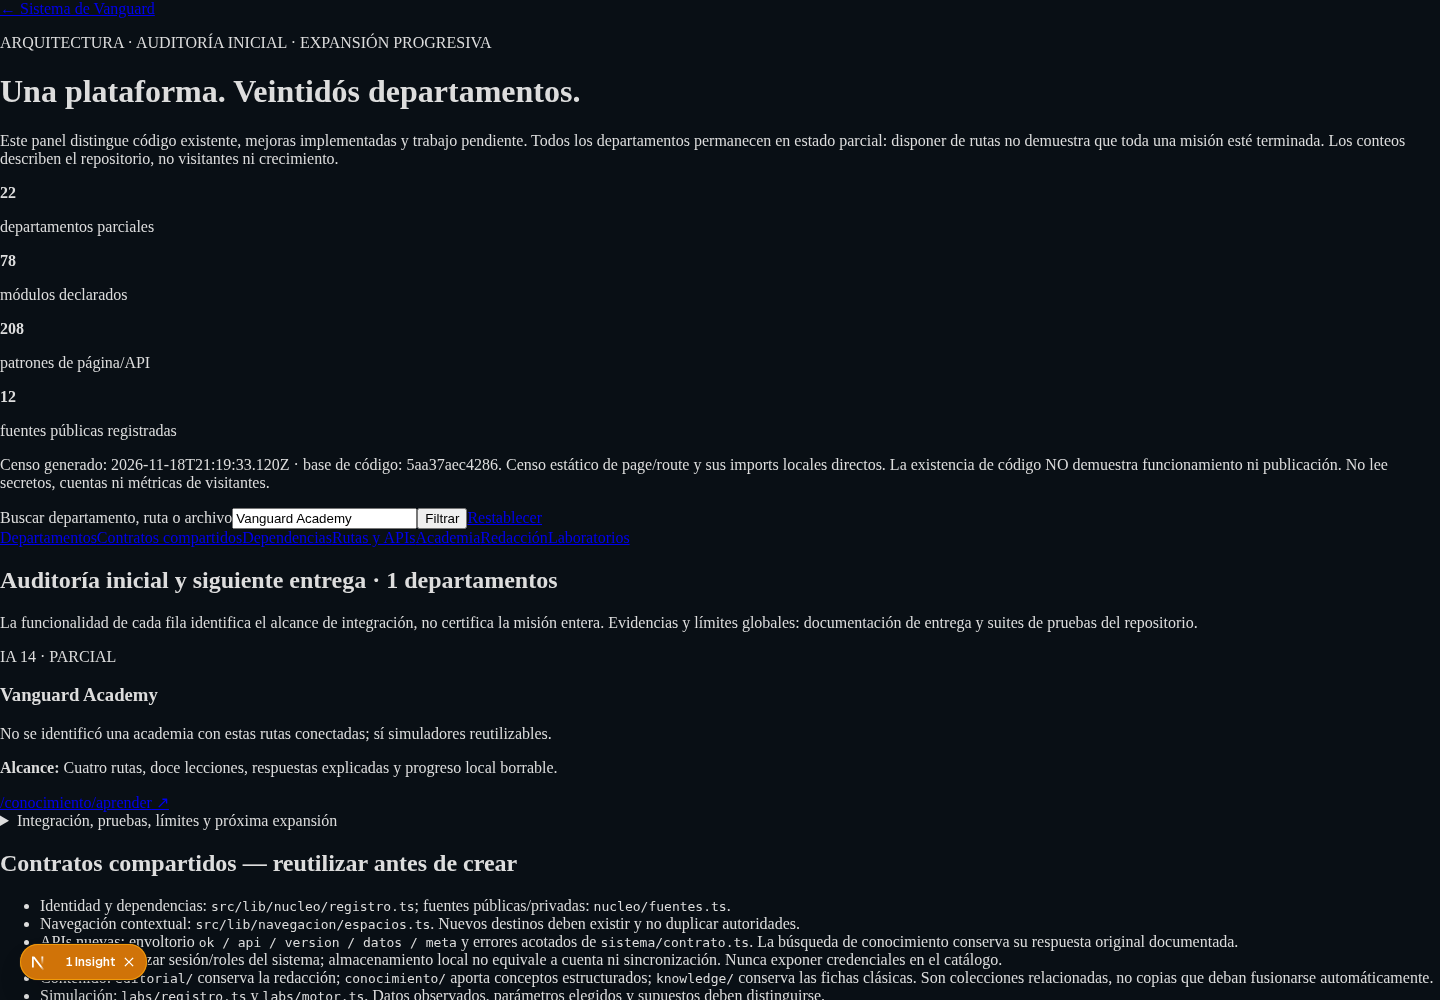
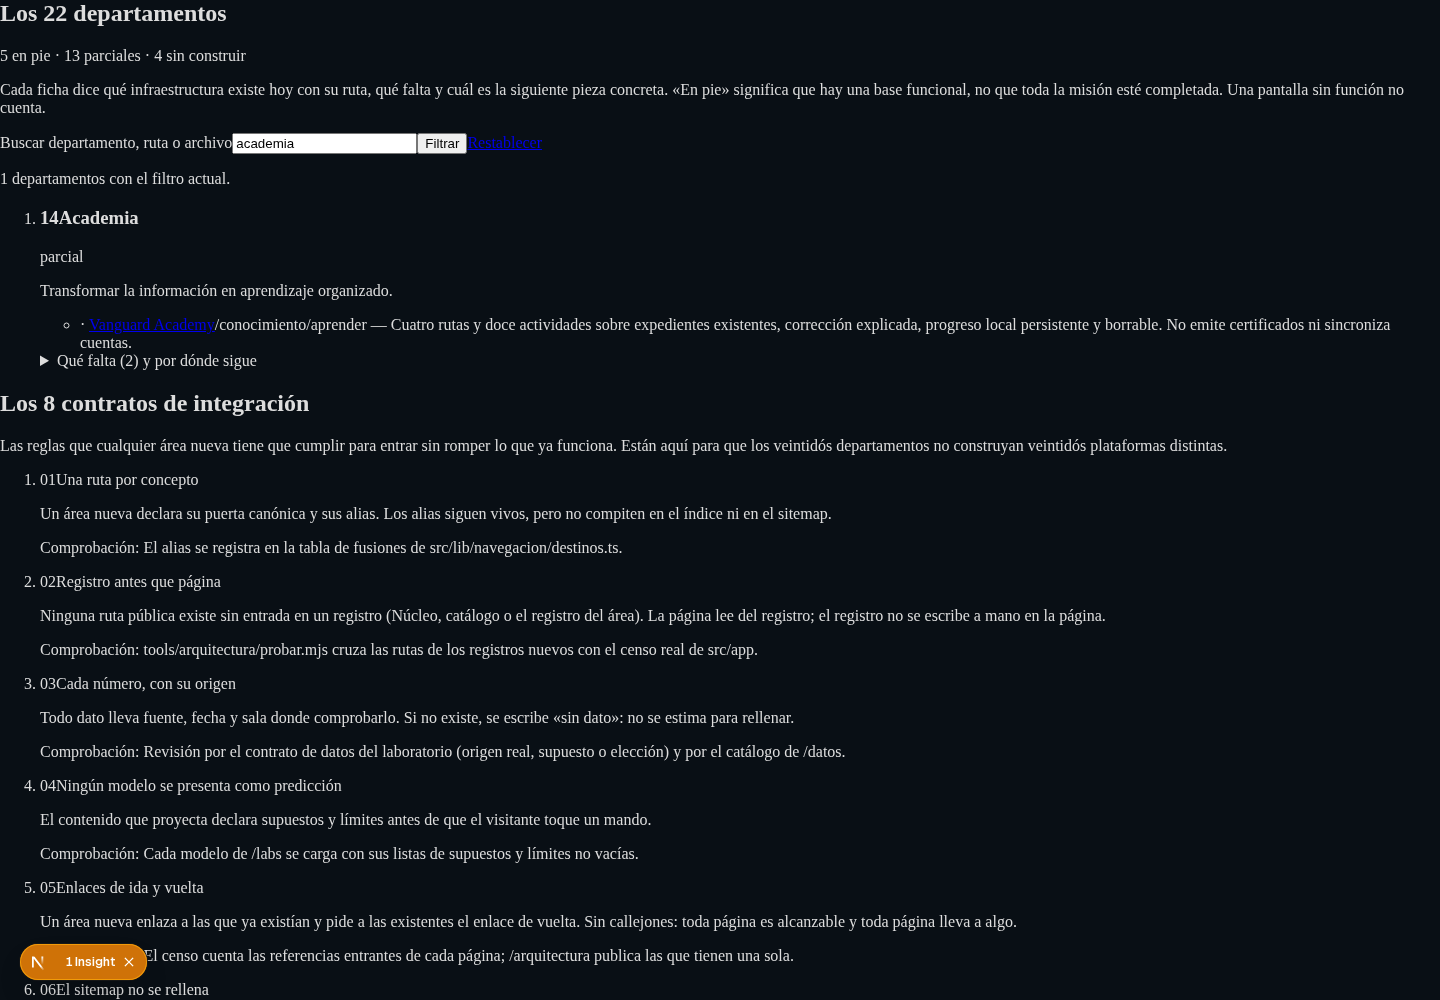
feat: integrar academia y explicador con la arquitectura canónica

diff --git a/scripts/conocimiento/pruebas-departamentos.ts b/scripts/conocimiento/pruebas-departamentos.ts
@@ -3,18 +3,19 @@ import fs from 'node:fs';
 import {NextRequest} from 'next/server';
 import {RUTAS_APRENDIZAJE,evaluarRespuesta,explicarConcepto} from '../../src/lib/conocimiento/aprendizaje';
 import {CONCEPTOS,rutasConocimiento} from '../../src/lib/conocimiento/indice';
-import dept from '../../src/lib/departamentos/registro.json';
-import inv from '../../src/lib/conocimiento/inventario.json';
+import {DEPARTAMENTOS as dept} from '../../src/lib/arquitectura/departamentos';
+import inv from '../../src/lib/arquitectura/censo.json';
+import {FUENTES_PUBLICAS} from '../../src/lib/nucleo/fuentes';
 import {MODULOS_NUCLEO} from '../../src/lib/nucleo/registro';
 import {GET} from '../../src/app/api/conocimiento/explicar/route';
 async function main(){
 const checks:string[]=[];function check(name:string,fn:()=>void){fn();checks.push(name);console.log('✓',name);}
-check('22 departamentos con auditoría, alcance, archivos, pruebas, límites y siguiente expansión',()=>{assert.equal(dept.length,22);assert.equal(new Set(dept.map(d=>d.id)).size,22);for(const d of dept){assert.equal(d.estado,'parcial');for(const key of ['auditoria','funcionalidad','integracion','pruebas','problemas','pendiente','motivo','proxima'] as const)assert(d[key].length>20);for(const f of d.archivos)assert(fs.existsSync(f),f);for(const r of d.rutas){const p=r.split('?')[0];assert(fs.existsSync(`src/app${p}/page.tsx`)||inv.rutas.some(x=>x.ruta===p)||rutasConocimiento().includes(p),r);}}});
-check('Censo reproducible sin colisiones; cada patrón apunta a un archivo real',()=>{assert.equal(inv.colisiones.length,0);assert(inv.rutas.length>150);for(const r of inv.rutas)assert(fs.existsSync(r.archivo));});
+check('Registro canónico único de 22 departamentos; academia y explicador con alcance parcial',()=>{assert.equal(dept.length,22);assert.equal(new Set(dept.map(d=>d.id)).size,22);assert.equal(dept.find(d=>d.n===14)?.estado,'parcial');assert.equal(dept.find(d=>d.n===15)?.estado,'parcial');for(const d of dept){assert(d.falta.length>0);assert(d.siguiente.length>20);for(const pieza of d.existe){if(!pieza.ruta)continue;const p=pieza.ruta.split('?')[0];assert(fs.existsSync(`src/app${p}/page.tsx`)||inv.rutas.some(x=>new RegExp('^'+x.ruta.replace(/\[[^\]]+\]/g,'[^/]+')+'$').test(p))||rutasConocimiento().includes(p),p);}}});
+check('Censo compartido regenerado y sin rutas huérfanas',()=>{assert(inv.total>150);assert.deepEqual(inv.huerfanas,[]);assert.equal(inv.total,inv.paginas+inv.rutasApi);});
 check('Cuatro rutas y doce actividades conectadas a expedientes con fuentes',()=>{assert.equal(RUTAS_APRENDIZAJE.length,4);assert.equal(RUTAS_APRENDIZAJE.flatMap(r=>r.preguntas).length,12);for(const r of RUTAS_APRENDIZAJE)for(const p of r.preguntas){assert(CONCEPTOS.some(c=>c.id===p.concepto&&c.fuentes.length>0));assert(p.correcta>=0&&p.correcta<p.opciones.length);assert(p.explicacion.length>50);}});
 check('Evaluación distingue respuestas correctas, incorrectas y entradas no enteras',()=>{for(const r of RUTAS_APRENDIZAJE)for(const p of r.preguntas){assert(evaluarRespuesta(p,p.correcta).correcta);assert(!evaluarRespuesta(p,(p.correcta+1)%p.opciones.length).correcta);assert(!evaluarRespuesta(p,NaN).correcta);assert(!evaluarRespuesta(p,0.5).correcta);}});
 check('Motor explicativo reutiliza el texto exacto y no responde sobre temas inexistentes',()=>{for(const c of CONCEPTOS){const r=explicarConcepto(c.id,'rapido')!,full=explicarConcepto(c.id,'completo')!;assert.equal(r.resumen,c.resumen);assert.equal(r.limites,c.limite);assert.equal(full.mecanismo,c.mecanismo);assert(!('mecanismo' in r));assert(r.fuentes.length>0);}assert.equal(explicarConcepto('inexistente','rapido'),null);});
-check('Los nuevos módulos tienen destino y dependencias registradas',()=>{for(const id of ['mod:academia-conocimiento','mod:departamentos']){const m=MODULOS_NUCLEO.find(m=>m.id===id)!;assert(m);assert(fs.existsSync(`src/app${m.ruta}/page.tsx`));for(const d of m.dependencias)assert(MODULOS_NUCLEO.some(m=>m.id===d));}});
+check('Los nuevos módulos tienen destino y dependencias registradas',()=>{for(const id of ['mod:academia-conocimiento','mod:conocimiento-global']){const m=MODULOS_NUCLEO.find(m=>m.id===id)!;assert(m);assert(fs.existsSync(`src/app${m.ruta}/page.tsx`));for(const d of m.dependencias)assert(MODULOS_NUCLEO.some(m=>m.id===d)||FUENTES_PUBLICAS.some(f=>f.id===d));}});
 for(const [query,status] of [['tema=pib',200],['tema=pib&nivel=completo',200],['tema=no-existe',404],['tema=pib&nivel=inventar',400],['tema='+('x'.repeat(101)),400]] as const){const r=GET(new NextRequest('http://localhost/api/conocimiento/explicar?'+query));assert.equal(r.status,status);const j=await r.json();assert.equal(j.api,'1');assert.equal(j.ok,status===200);if(status===200)assert.equal(j.datos.id,'pib');checks.push(`API explicativa ${query.slice(0,45)} → ${status}`);}
 fs.mkdirSync('qa/conocimiento',{recursive:true});fs.writeFileSync('qa/conocimiento/departamentos.json',JSON.stringify({passed:checks.length,checks,scope:'Integridad de contratos y lógica. No certifica todas las misiones ni derechos de activos heredados.'},null,2)+'\n');console.log(`${checks.length} pruebas aprobadas.`);
 

diff --git a/src/app/arquitectura/page.tsx b/src/app/arquitectura/page.tsx
@@ -1,4 +1,5 @@
 import type { Metadata } from "next";
+import {normalizar} from "@/lib/conocimiento/indice";
 import Link from "next/link";
 import { SITE_URL } from "@/lib/site";
 import { jsonLdSeguro } from "@/lib/jsonld-seguro";
@@ -45,7 +46,10 @@ const COLOR_ESTADO: Record<EstadoDepartamento, { borde: string; texto: string; f
   "sin construir": { borde: "border-zinc-700", texto: "text-zinc-400", fondo: "bg-zinc-800/40" },
 };
 
-export default function ArquitecturaPage() {
+export default async function ArquitecturaPage({searchParams}:{searchParams:Promise<Record<string,string|string[]|undefined>>}) {
+  const params=await searchParams;const q=typeof params.q==='string'?params.q.slice(0,180):'';
+  const tokens=normalizar(q).split(/\s+/).filter(Boolean);
+  const departamentosFiltrados=DEPARTAMENTOS.filter(d=>tokens.every(t=>normalizar(JSON.stringify(d)).includes(t)));
   const resumen = resumenDepartamentos();
   const nexos = cuentaNexos();
   const labs = estadisticasLabs();
@@ -225,7 +229,7 @@ export default function ArquitecturaPage() {
         </section>
 
         {/* ── 3. los 22 departamentos ──────────────────────────── */}
-        <section className="mt-10">
+        <section id="departamentos" className="mt-10">
           <div className="flex flex-wrap items-baseline justify-between gap-2">
             <h2 className="font-orbitron text-xl font-black text-zinc-100">Los 22 departamentos</h2>
             <p className="font-mono text-[10px] uppercase tracking-wider text-zinc-500">
@@ -234,11 +238,13 @@ export default function ArquitecturaPage() {
           </div>
           <p className="mt-2 max-w-3xl text-[13px] leading-relaxed text-zinc-400">
             Cada ficha dice qué infraestructura existe hoy con su ruta, qué falta y cuál es la siguiente pieza
-            concreta. «En pie» significa que hay motor y datos reales detrás; una pantalla sin función no cuenta.
+            concreta. «En pie» significa que hay una base funcional, no que toda la misión esté completada. Una pantalla sin función no cuenta.
           </p>
 
+          <form action="/arquitectura#departamentos" className="mt-4 flex flex-wrap gap-3"><label className="flex-1 text-sm">Buscar departamento, ruta o archivo<input name="q" type="search" maxLength={180} defaultValue={q} className="mt-2 block w-full rounded border border-zinc-700 bg-zinc-900 p-3"/></label><button type="submit" className="self-end rounded border border-amber-400/50 px-4 py-3 text-sm text-amber-300">Filtrar</button><Link className="self-end p-3 text-sm text-amber-300" href="/arquitectura#departamentos">Restablecer</Link></form>
+          <p className="mt-3 text-xs text-zinc-500" role="status">{departamentosFiltrados.length} departamentos con el filtro actual.</p>
           <ol className="mt-4 space-y-3">
-            {DEPARTAMENTOS.map((d) => {
+            {departamentosFiltrados.map((d) => {
               const c = COLOR_ESTADO[d.estado];
               return (
                 <li key={d.id} className={`rounded-lg border ${c.borde} bg-zinc-900/40 p-4`}>

diff --git a/docs/conocimiento/INTEGRACION-OFICIAL.md b/docs/conocimiento/INTEGRACION-OFICIAL.md
@@ -1,0 +1,71 @@
+# Integración de Conocimiento Global y plan de 22 departamentos
+
+18 de noviembre de 2026. Este documento amplía la entrega BETA anterior; su aviso de «sin publicación» describe aquella entrega histórica, no acredita el estado actual de producción. El estado definitivo debe comprobarse en Vercel y en las rutas públicas.
+
+## Auditoría inicial y coordinación
+
+La base oficial al comenzar era `5aa37aec4286cb2942711dbe93ea270d32c94bf9`. Durante la implementación entró en `main` `bba18dce25d00f16cab29b0173e915dc8c0ff97a` (arquitectura v412). Se incorporó mediante merge, conservando sus nexos, censo, contratos, laboratorios y página `/arquitectura`. La única colisión textual fue en la ficha de país: se conservaron tanto la banda de nexos nueva como el puente específico a Conocimiento.
+
+Se descartaron el segundo inventario y el segundo registro de departamentos que se habían preparado en paralelo. **La autoridad única es `src/lib/arquitectura/departamentos.ts` y la puerta pública `/arquitectura`.** Su censo se regenera con `node tools/arquitectura/censar.mjs`. El filtro de departamentos se añadió a esta página existente.
+
+El código oficial ya contenía redacción (`editorial/`), catálogo de datos, perfiles, biblioteca clásica (`knowledge/`), navegación, contratos y quince laboratorios. No se reemplazaron por implementaciones paralelas.
+
+## Funcionalidades de esta entrega
+
+1. Integración de los nueve centros y las treinta áreas de Conocimiento Global: 63 conceptos estructurados, 39 acontecimientos, 16 civilizaciones, 24 organizaciones, 28 referencias, comparadores y 12 series recuperadas. La entrega inicial conserva sus límites documentados.
+2. **Academia piloto** en `/conocimiento/aprender`: cuatro rutas y doce actividades. Reutiliza texto y fuentes de los expedientes, corrige respuestas y explica errores. Persiste únicamente actividades resueltas correctamente, sin duplicar progreso por reintentos; permite borrarlo. No envía respuestas al servidor ni emite certificados.
+3. **Motor explicativo determinista** en `/api/conocimiento/explicar?tema=pib&nivel=rapido` o `completo`. Devuelve el texto existente, contexto, límites y fuentes según nivel. No genera afirmaciones nuevas. Un tema desconocido devuelve 404 y un nivel inválido 400. Usa el contrato central API v1.
+4. **Integración real:** portada, navegación contextual, Núcleo, sitemap, fichas nacionales, enlaces a redacción, datos y laboratorios. Academy y Conocimiento tienen registro de módulo propio; Arquitectura conserva su registro existente.
+5. Actualización del registro compartido: Academia y Explicador pasan de «sin construir» a **parcial**. Se añaden las piezas nuevas a los departamentos relacionados sin declarar completadas sus misiones.
+6. Filtro de auditorías por consulta en `/arquitectura?q=academia`. Los conteos del censo describen código, **no métricas de audiencia**.
+
+## Archivos principales
+
+- `src/lib/conocimiento/`: contratos tipados, colecciones editoriales, instantánea, adaptador y lógica de aprendizaje/explicación.
+- `src/components/conocimiento/`: explorador, estilos aislados, puente nacional y academia.
+- `src/app/conocimiento/`, `src/app/api/conocimiento/`: páginas y API.
+- `src/lib/arquitectura/departamentos.ts`, `src/lib/arquitectura/censo.json`, `src/app/arquitectura/page.tsx`: autoridad compartida de los departamentos, censo regenerado y filtro.
+- `src/lib/nucleo/{registro,fuentes,busqueda}.ts`, `src/lib/navegacion/espacios.ts`, `src/lib/api/catalogo.ts`, portada, sitemap y ficha de país: integraciones aditivas.
+- `scripts/conocimiento/`, `qa/conocimiento/`: importadores, semillas y pruebas con evidencia.
+
+No se cambiaron esquema de base de datos, variables de entorno, permisos ni dependencias de producción. No se guardaron credenciales en los archivos.
+
+## Pruebas y resultados
+
+- Suite de integridad/API de Conocimiento: **17 comprobaciones**.
+- Suite de contratos, aprendizaje y registro compartido: **11 comprobaciones**.
+- Suite de navegador de Conocimiento: **22 comprobaciones**, escritorio y móvil, ejecutadas con las rutas originales en un arnés Next aislado.
+- Suite adicional Academia/Arquitectura: **9 comprobaciones** incluyendo reintentos, persistencia, borrado, navegación, API, filtro y móvil. El resultado definitivo y su URL figuran en `qa/conocimiento/academia-navegador.json`.
+- Arquitectura: `node tools/arquitectura/probar.mjs`; 22 departamentos y quince modelos, rutas citadas existentes.
+- TypeScript focalizado sobre archivos nuevos/modificados. Evitar ejecutarlo simultáneamente con Next/Chromium en entornos de 2 GB.
+- Regresiones puras existentes: Travesía (9) y Forja (19), aprobadas.
+- La antigua suite monolítica `pruebas-nucleo.mjs` mezcla versiones históricas y pruebas contra servidor: una invocación exploratoria no fue una ejecución válida de regresión. **No se declara aprobada.**
+
+El primer build de preview en Vercel ejecutó el `tsc --noEmit` global seguido de Next, compiló y generó 881 páginas. Esa prueba correspondía al primer commit de integración; la versión fusionada debe tener su propio build aprobado antes de publicar. Los registros del despliegue definitivo prevalecen sobre esta observación intermedia.
+
+## Problemas encontrados y corregidos
+
+- Fuentes y avances concurrentes: merge explícito y eliminación del registro duplicado.
+- Colisión en ficha de país: preservadas ambas integraciones, sin descartar trabajo de otra rama.
+- Pruebas de rutas dinámicas: se validan patrones y registros, no una carpeta por país/modelo.
+- Persistencia local: las pruebas esperan la restauración tras hidratación en vez de confundir el HTML inicial con el estado final.
+- `<title>` SVG: se emite una cadena única para evitar advertencias de React en SSR.
+- Memoria: servidor de pruebas y TypeScript simultáneos saturaron el sandbox; se detuvieron procesos y se ejecutaron secuencialmente. No se relajaron las reglas de tipos del producto.
+
+## Pendientes y motivos
+
+Las 22 misiones son un programa progresivo, no 22 departamentos completos en una sola entrega. El registro canónico conserva por departamento infraestructura existente, carencias y siguiente expansión. «En pie» indica una base funcional, no totalidad de la misión.
+
+Siguen pendientes: profundidad editorial y perfiles piloto; fotos/documentos con derechos comprobados; mapas de fronteras históricas reales; revisión científica y pedagógica; FAQ curadas; sincronización de progreso opcional con cuenta; flujos editoriales multiusuario y moderación; trazabilidad afirmación-fuente; distribución social; auditoría forense de analíticas y Search Console. **No se consultaron datos de audiencia ni se inventaron métricas.**
+
+La instantánea estadística conserva seis series fallidas y años faltantes; no son errores ocultados ni ceros inventados. Las 28 referencias seleccionadas no equivalen a 28 fuentes auditadas individualmente. El piloto educativo tampoco sustituye revisión especializada.
+
+## Próxima expansión concreta
+
+- IA 14: prueba pedagógica de estas cuatro rutas con estudiantes/docentes, más actividades y evaluación de accesibilidad.
+- IA 15: selector de nivel en las fichas, ejemplos y FAQ curados, siempre reutilizando los mismos expedientes.
+- IA 17: registro de afirmaciones y correcciones vinculado a fuentes, sin puntuaciones arbitrarias.
+- IA 18/22: carga diferida de indicadores y medición de rendimiento en el producto completo.
+- IA 1: actualizar el censo y los contratos al incorporar cada entrega, manteniendo una sola autoridad y respetando las contribuciones concurrentes.
+
+Para ejecutar: `npx --yes --package=tsx tsx scripts/conocimiento/pruebas.ts`, `npx --yes --package=tsx tsx scripts/conocimiento/pruebas-departamentos.ts`, `node tools/arquitectura/probar.mjs`. Navegador: instalar Playwright/Chromium y ejecutar las suites con `KNOWLEDGE_URL` apuntando al entorno deseado.
